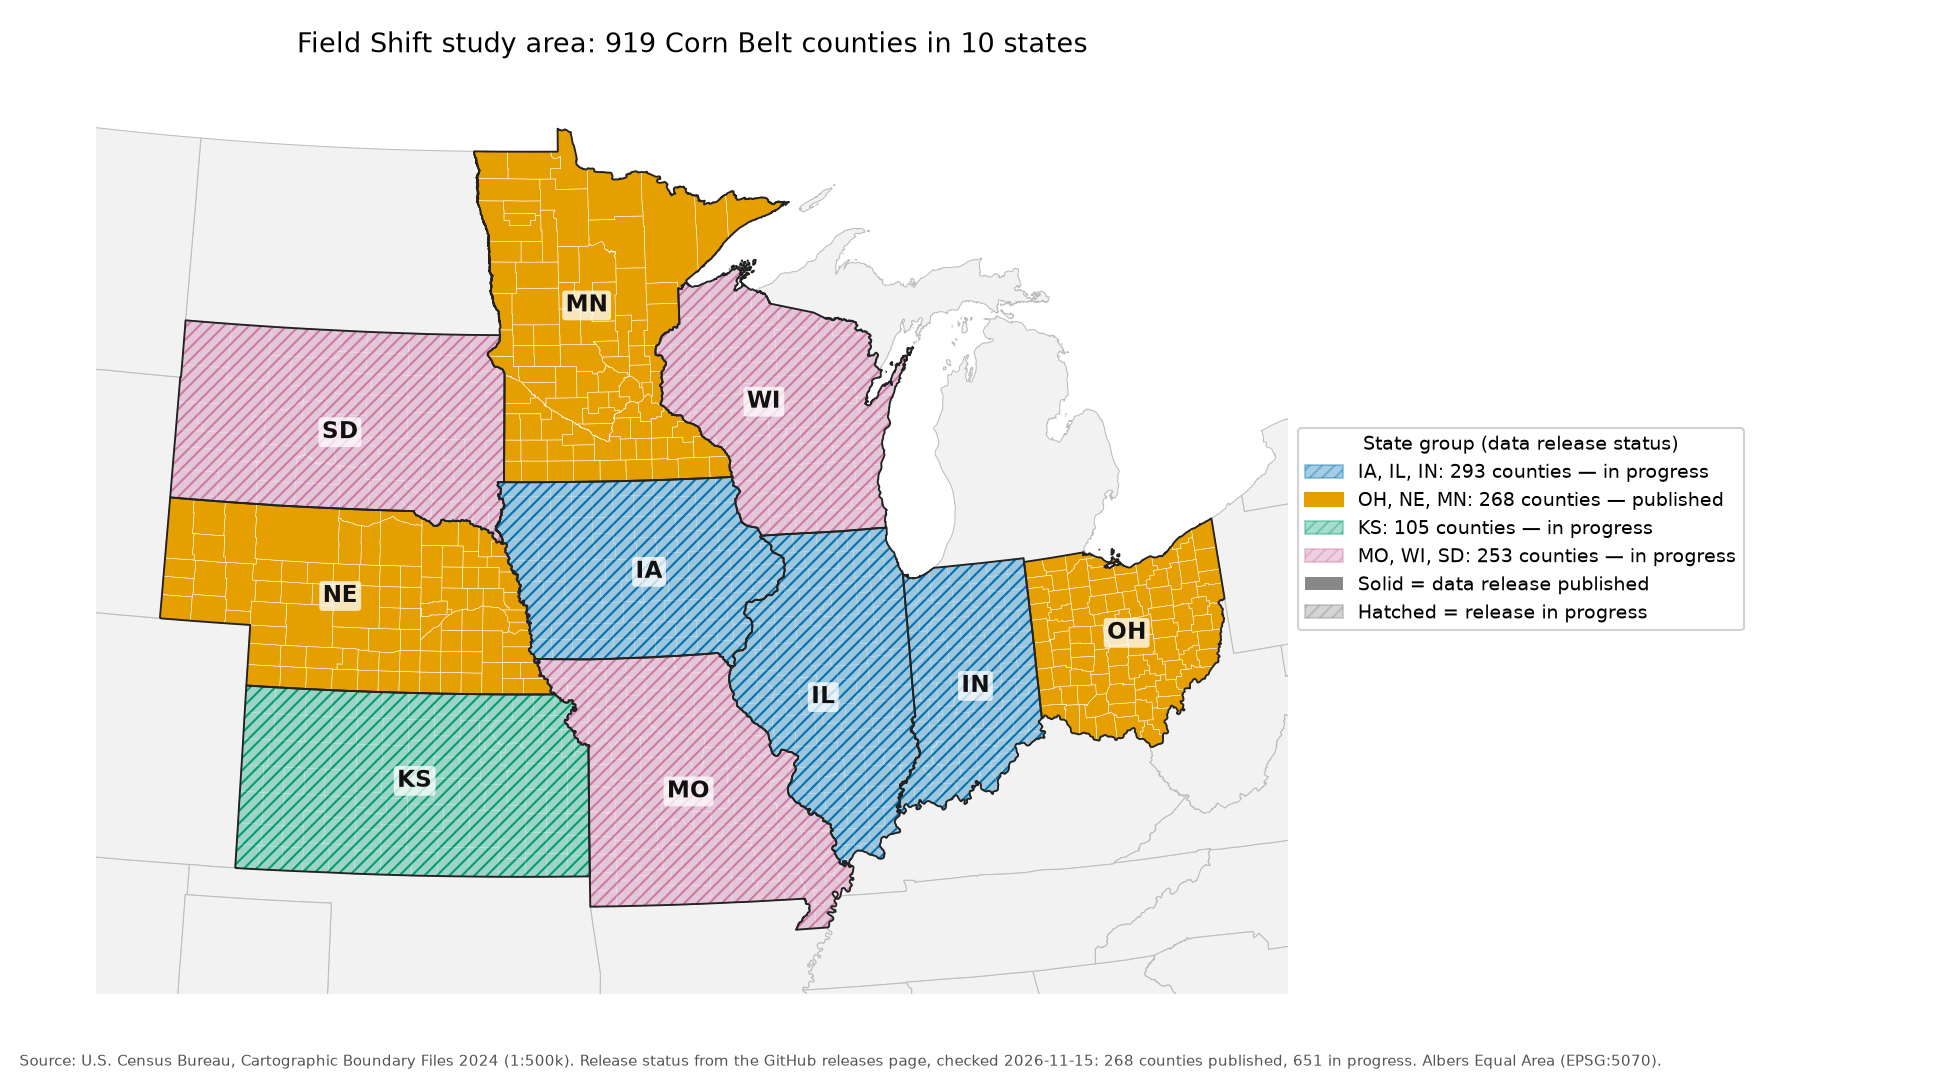
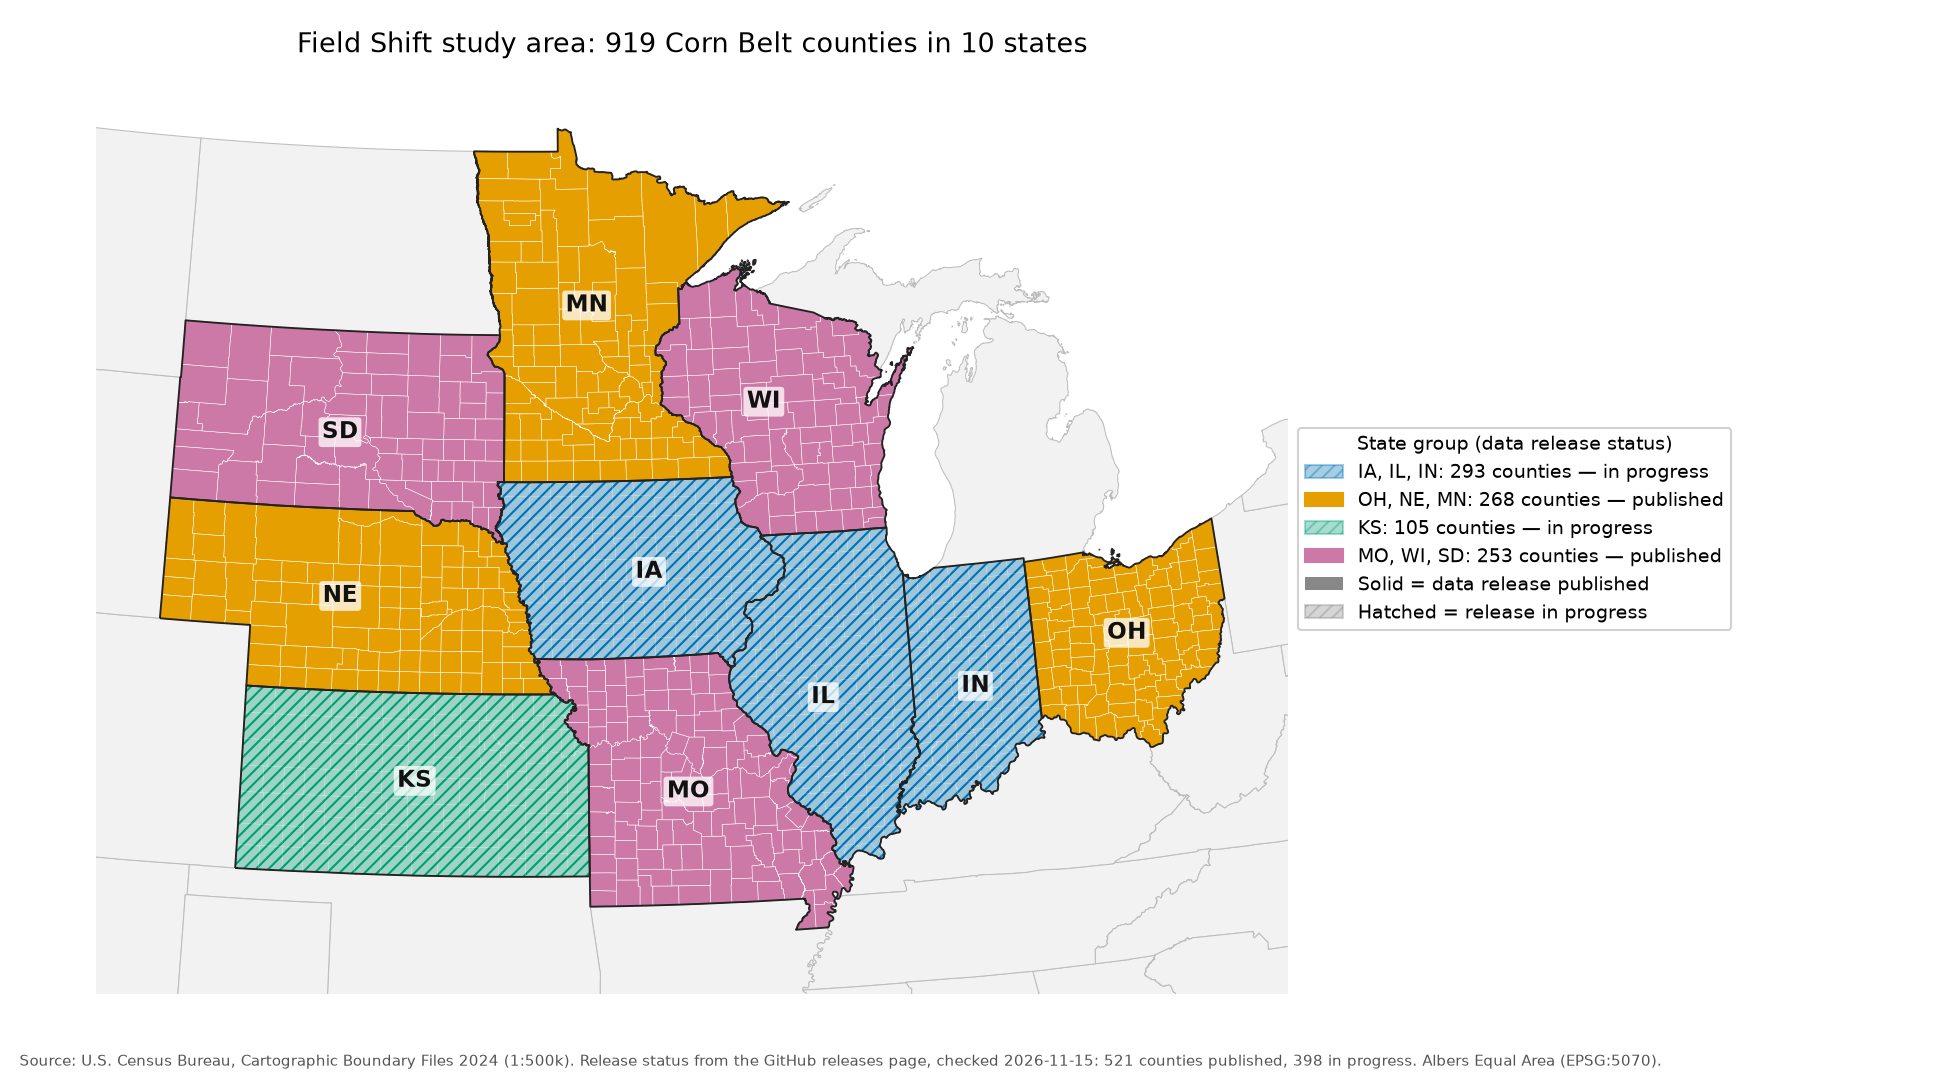
T104: Actualizar coverage, mapa y láminas cuando se publique datos-mo-wi-sd (#144)
* coverage: suma el release datos-mo-wi-sd (253 condados)

* mapa: MO, WI y SD como publicados (521 condados publicados)

* slides: cobertura con datos-mo-wi-sd (6 estados, 521 condados publicados)

* project_page: cobertura con datos-mo-wi-sd (6 estados, 521 condados)

* video: cobertura con datos-mo-wi-sd (6 estados, 521 condados)

---------

diff --git a/docs/demo/project_page.md b/docs/demo/project_page.md
@@ -11,14 +11,17 @@ Rules for whoever pastes this into the form:
 - **Everything in English.** All links must be **public, with no login**. Test them in a private window.
 - **No invented numbers.** Each figure has a `[src: ...]` note with the repo file it comes from. Delete those notes
   before pasting, but keep the numbers exactly as written. Anything we do not have yet is marked **[TBD]**.
-- **Coverage (checked 2026-11-15, task T089).** The only published data release is **`datos-oh-ne-mn`: Ohio,
-  Nebraska and Minnesota, 268 counties (OH 88, NE 93, MN 87), 2000–2025**, with 8 packages (`agua`, `clima`,
-  `cultivos`, `economia`, `nldas`, `paisaje`, `suelo_terreno`, `vegetacion`), 19 CSV files and 169 data columns
-  `[src: release datos-oh-ne-mn, condados.csv and CSV headers, zips checked against their .sha256]`. Iowa,
-  Illinois and Indiana (first batch, 293 counties, `docs/datasets/clima.md`), Kansas, the field-level
-  `fieldshift_lotes_v1` and the `ecostress`, `teledeteccion` and `validacion` packages have **no published
-  release**: their numbers below come from repo data cards only and are marked. Do not claim 7 states or 666
-  counties as delivered until those releases exist. `docs/demo/coverage.md` lists the published releases with
+- **Coverage (checked 2026-11-15, tasks T089 and T104).** Two data releases are published:
+  **`datos-oh-ne-mn`: Ohio, Nebraska and Minnesota, 268 counties (OH 88, NE 93, MN 87), 2000–2025**, with 8
+  packages (`agua`, `clima`, `cultivos`, `economia`, `nldas`, `paisaje`, `suelo_terreno`, `vegetacion`), 19 CSV
+  files and 169 data columns `[src: release datos-oh-ne-mn, condados.csv and CSV headers, zips checked against
+  their .sha256]`, and **`datos-mo-wi-sd`: Missouri, Wisconsin and South Dakota, 253 counties (MO 115, WI 72,
+  SD 66), 2000–2025**, with the same 8 packages and 19 CSV files `[src: release datos-mo-wi-sd,
+  docs/demo/coverage.md]`. Together: **6 states, 521 counties**. Iowa, Illinois and Indiana (first batch, 293
+  counties, `docs/datasets/clima.md`), Kansas (105 counties), the field-level `fieldshift_lotes_v1` and the
+  `ecostress`, `teledeteccion` and `validacion` packages have **no published release**: their numbers below come
+  from repo data cards only and are marked. Do not claim 10 states or 919 counties as delivered until those
+  releases exist. `docs/demo/coverage.md` lists the published releases with
   counted numbers: rerun `docs/demo/coverage.py` before pasting.
 - **Model results.** This repo builds the data only and trains no models (`CLAUDE.md`). Any claim about model
   accuracy or recommended rotations has to come from the ML or frontend team. **[TBD]**
@@ -46,8 +49,8 @@ tab): **[TBD]**. Local event: **[TBD]**.
 > years. We built an open, reproducible data pipeline that brings together 26 years (2000–2025) of NASA Earth
 > observations, which are the core of the tool: weather and rainfall (NASA POWER, GPM IMERG), soil moisture (SMAP,
 > NLDAS-2, GRACE-DA-DM), vegetation and land surface temperature (MODIS) and terrain (NASADEM). The first
-> published release covers 268 counties in Ohio, Nebraska and Minnesota; Iowa, Illinois, Indiana and Kansas
-> complete the planned 7-state study area. The pipeline combines the NASA data, county by county, with the crops
+> published releases cover 521 counties in six states (Ohio, Nebraska, Minnesota, Missouri, Wisconsin and South
+> Dakota); Iowa, Illinois, Indiana and Kansas complete the planned 10-state study area. The pipeline combines the NASA data, county by county, with the crops
 > actually grown on every 30 m pixel
 > (USDA Cropland Data Layer), county yields, soil surveys (SSURGO) and economics. On top of these tables, the
 > tool compares at least three rotations, starting with the farmer's current one. For each rotation it shows
@@ -55,8 +58,9 @@ tab): **[TBD]**. Local event: **[TBD]**.
 > fields, where satellite and terrain data separate dry knolls from wet depressions. The tool supports farmers'
 > decisions and local expertise; it does not replace them.
 
-Sources for the numbers: period, products and the 268 counties from the release `datos-oh-ne-mn`; planned
-states `CLAUDE.md` §2. ECOSTRESS, HLS and Landsat were taken out of the summary because their packages
+Sources for the numbers: period and products from the release `datos-oh-ne-mn`; the 521 counties from the
+releases `datos-oh-ne-mn` (268) and `datos-mo-wi-sd` (253), counted in `docs/demo/coverage.md`; planned states
+`config/config.yaml`. ECOSTRESS, HLS and Landsat were taken out of the summary because their packages
 (`ecostress`, `lotes`, `teledeteccion`) have no published release; put them back if they are published.
 Rotation penalty: continuous corn yields 4.3 % less than rotated corn on rainfed fields and 1.7 % less on
 irrigated ones, continuous soybean 10.3 % and 9.6 % less, and the corn penalty is largest in dry, low-yield
@@ -79,8 +83,9 @@ project from Global Judging (`space_apps_criterios.md` §2). The draft is in `do
 - **Data:** processed CSVs are published as GitHub Releases, one per group of states (`datos-<states>`, made by
   `scripts/entregar.py`), plus a separate field-level release (`fieldshift_lotes_v1`, `CLAUDE.md` §6.6).
   What is published today, with states, counties, years and rows counted from the zips:
-  `docs/demo/coverage.md` (refresh with `docs/demo/coverage.py`). Published release (Ohio, Nebraska, Minnesota):
-  <repo URL>/releases/tag/datos-oh-ne-mn · all releases: <repo URL>/releases `[src: coverage.md, 2026-11-15; add the
+  `docs/demo/coverage.md` (refresh with `docs/demo/coverage.py`). Published releases (Ohio, Nebraska, Minnesota):
+  <repo URL>/releases/tag/datos-oh-ne-mn · (Missouri, Wisconsin, South Dakota):
+  <repo URL>/releases/tag/datos-mo-wi-sd · all releases: <repo URL>/releases `[src: coverage.md, 2026-11-15; add the
   other datos-<states> tags only once they are published]`
 - **English documentation for judges:** `docs/datasets/README_en.md` (data summary, sources, quality control,
   limitations): [`docs/datasets/README_en.md`](../datasets/README_en.md)
@@ -95,9 +100,9 @@ project from Global Judging (`space_apps_criterios.md` §2). The draft is in `do
 ### What it does
 
 Field Shift is a decision-support tool for crop rotations in the U.S. Corn Belt. The planned study area is every
-county of Iowa, Illinois, Indiana, Ohio, Nebraska, Minnesota and Kansas, 666 counties, for 2000–2025
-`[src: CLAUDE.md §2]`. Published so far: Ohio, Nebraska and Minnesota, 268 counties, 2000–2025 `[src: release
-datos-oh-ne-mn]`. For a given county or field, the tool compares at least three rotation strategies,
+county of Iowa, Illinois, Indiana, Ohio, Nebraska, Minnesota, Kansas, Missouri, Wisconsin and South Dakota,
+919 counties, for 2000–2025 `[src: config/config.yaml]`. Published so far: Ohio, Nebraska, Minnesota, Missouri,
+Wisconsin and South Dakota, 521 counties, 2000–2025 `[src: releases datos-oh-ne-mn and datos-mo-wi-sd]`. For a given county or field, the tool compares at least three rotation strategies,
 including the current one, as the challenge asks. These are the corn–soybean rotation, continuous corn and
 rotations that add a small grain or alfalfa. For each strategy it reports:
 

diff --git a/docs/demo/slides.md b/docs/demo/slides.md
@@ -13,16 +13,20 @@ Rules for whoever finishes this draft:
 - **No invented numbers.** Every figure below says where it comes from (`[src: ...]`). Anything we do not have
   yet is marked **[TBD]**. The `[src: ...]` notes are for the team: remove them from the final slides, but keep
   the short data credit under each figure.
-- **Coverage (checked 2026-11-15, task T089).** The only data release published on GitHub is
+- **Coverage (checked 2026-11-15, tasks T089 and T104).** Two data releases are published on GitHub:
   **`datos-oh-ne-mn`: Ohio, Nebraska and Minnesota, 268 counties (OH 88, NE 93, MN 87), 2000–2025**, 8 packages,
   169 data columns in 19 CSV files (`[src: release datos-oh-ne-mn, data/reference/condados.csv and CSV
-  headers]`). There is **no published release** for Iowa, Illinois and Indiana (first batch, 293 counties, built
-  in an earlier repo and described in `docs/datasets/clima.md` and `validacion.md`), for Kansas, or for the
-  field-level `fieldshift_lotes_v1`. So: **do not say "666 counties" or "7 states" as delivered**; say "7 states
-  planned, 3 published (268 counties)" until the other releases exist. Numbers that come only from repo data
-  cards (IA/IL/IN validation, the 10 fields, ECOSTRESS) are marked as such below.
+  headers]`), and **`datos-mo-wi-sd`: Missouri, Wisconsin and South Dakota, 253 counties (MO 115, WI 72, SD 66),
+  2000–2025**, the same 8 packages and 19 CSV files (`[src: release datos-mo-wi-sd, docs/demo/coverage.md]`).
+  Together: **6 states, 521 counties published**. There is **no published release** for Iowa, Illinois and
+  Indiana (first batch, 293 counties, built in an earlier repo and described in `docs/datasets/clima.md` and
+  `validacion.md`), for Kansas (105 counties), or for the field-level `fieldshift_lotes_v1`. So: **do not say
+  "919 counties" or "10 states" as delivered**; say "10 states planned, 6 published (521 counties)" until the
+  other releases exist. Numbers that come only from repo data cards (IA/IL/IN validation, the 10 fields,
+  ECOSTRESS) are marked as such below.
 - **Figures.** Real PNGs are in `docs/demo/fig/` (task T074), built by `docs/demo/figuras.py` from the
-  `datos-oh-ne-mn` release. They show **only OH, NE and MN**, and each caption says so.
+  `datos-oh-ne-mn` release. They show **only OH, NE and MN**, and each caption says so (MO, WI and SD are not in
+  fig1–fig8 yet; only the map, fig0, includes them).
 - **AI disclosure.** Any AI-generated image or voice needs a visible watermark ("AI-generated"). Do not use or
   modify NASA logos with AI; use plain-text credits (`space_apps_criterios.md` §4 and §6).
 - No images, video, audio or likeness of anyone under 18.
@@ -43,7 +47,8 @@ Rules for whoever finishes this draft:
 state group (IA/IL/IN, OH/NE/MN, KS, MO/WI/SD; Okabe-Ito colorblind-safe palette). Solid fill = data release
 published, hatched = release in progress.
 - From: US Census Cartographic Boundary Files 2024, 1:500k, and the GitHub releases page (checked 2026-11-15:
-  only `datos-oh-ne-mn` published, 268 counties). Built by `docs/demo/figuras.py --solo-mapa` (task T094).
+  `datos-oh-ne-mn` and `datos-mo-wi-sd` published, 521 counties; IA/IL/IN and KS in progress, 398 counties).
+  Built by `docs/demo/figuras.py --mapa --solo-mapa` (tasks T094 and T104).
 - **Re-run before the final slides** so the release status is current.
 
 ![Field Shift study area](fig/fig0_mapa.png)
@@ -246,7 +251,7 @@ Group, Oregon State University · CoCoRaHS.
   CDL, CSB, Crop-CASMA) · USDA ERS · USDA NRCS SSURGO · U.S. Census Bureau · PRISM (Oregon State University) ·
   CoCoRaHS · AgTile-US.
 - **Open pipeline:** <repo URL> · data in the GitHub Releases: <repo URL>/releases (published:
-  <repo URL>/releases/tag/datos-oh-ne-mn) `[src: git remote get-url origin; docs/demo/coverage.md, 2026-11-15]`.
+  <repo URL>/releases/tag/datos-oh-ne-mn and <repo URL>/releases/tag/datos-mo-wi-sd) `[src: git remote get-url origin; docs/demo/coverage.md, 2026-11-15]`.
 - AI disclosure line: "Pipeline code and documentation were written with the help of AI coding agents (Claude);
   all data are downloaded from the cited sources, not generated by AI." **[TBD: team confirms wording.]**
 
@@ -292,6 +297,7 @@ private window.
 | Marsden +4 % corn, +16 % soybean, −86 % to −91 % mineral N | `docs/research/efecto_rotacion.md` (ISU Marsden Farm; Davis et al. 2012) |
 | 14 %–90 % smaller drought losses, 11 trials | `docs/research/efecto_rotacion.md` (Bowles et al. 2020) |
 | 268 counties (OH 88, NE 93, MN 87), 2000–2025, 8 packages, 19 CSV files, 169 data columns | release `datos-oh-ne-mn` (checked with `.sha256` on 2026-11-15): `condados.csv` and CSV headers |
+| 253 counties (MO 115, WI 72, SD 66), 2000–2025, 8 packages, 19 CSV files; 6 states and 521 counties published in total; 398 counties (IA/IL/IN, KS) in progress | release `datos-mo-wi-sd` (checked with `.sha256` on 2026-11-15), `docs/demo/coverage.md` and `fig0_mapa.png` (T104) |
 | Corn after corn 2025: median 24.5 %, 0–98.5 %, OH 11.0 %, MN 23.9 %, NE 46.5 %; corn after soybean median 64.6 %; 266 counties | release `datos-oh-ne-mn`, `rotacion_anual.csv` |
 | Median county corn yield 138.4 bu/ac (2012) vs 160.6 bu/ac (other years), 5,987 county-years | release `datos-oh-ne-mn`, `produccion_anual.csv` |
 | 8 NASA products in the published release | data cards inside the `datos-oh-ne-mn` zips |

diff --git a/docs/demo/video.md b/docs/demo/video.md
@@ -12,8 +12,10 @@ Rules this script follows (`docs/research/space_apps_criterios.md` §1–§2):
 - **Only real figures** from `docs/demo/fig/` and **only numbers** from `docs/demo/coverage.md` or the published
   release `datos-oh-ne-mn`. Every number below has its source in the last table. No model results: the shot
   marked **[ML]** is left for the ML team.
-- **What is published today:** only Ohio, Nebraska and Minnesota (268 counties, 2000–2025, release
-  `datos-oh-ne-mn`). Do **not** say "666 counties" or "7 states" as delivered. All figures are OH/NE/MN only.
+- **What is published today:** Ohio, Nebraska and Minnesota (268 counties, release `datos-oh-ne-mn`) and
+  Missouri, Wisconsin and South Dakota (253 counties, release `datos-mo-wi-sd`): 6 states, 521 counties,
+  2000–2025. Do **not** say "919 counties" or "10 states" as delivered. All figures except the map (fig0) are
+  OH/NE/MN only, and so are the numbers in shots 2–5.
 - No NASA logos (and no AI-modified logos): credits are plain text. Any AI-generated image or voice carries a
   visible "AI-generated" watermark. No people under 18.
 
@@ -41,7 +43,7 @@ Total: **30 s**. Narration: **71 words** (about 70 fit in 30 s; see the word cou
 ## Shot 1 — 0:00 to 0:03 · Title and team
 
 - **On screen:** `docs/demo/fig/fig0_mapa.png` (task T094): the counties of the study states, solid where the
-  data release is published (OH, NE, MN) and hatched where it is in progress. Title text over a dark band at
+  data release is published (OH, NE, MN, MO, WI, SD) and hatched where it is in progress. Title text over a dark band at
   the top. **Re-run `docs/demo/figuras.py --solo-mapa` before the final cut** so the solid/hatched status is
   current. Do not draw a map by hand.
 - **On-screen text:**
@@ -122,7 +124,7 @@ Total: **30 s**. Narration: **71 words** (about 70 fit in 30 s; see the word cou
 - **On screen:** plain-text card, no logos.
 - **On-screen text:**
   - **Built on open NASA data:** POWER · GPM IMERG (via POWER) · SMAP · GRACE-DA-DM · MODIS · NLDAS-2 · NASADEM
-  - *+ USDA NASS, NRCS, ERS · 268 counties published (OH, NE, MN), 2000–2025*
+  - *+ USDA NASS, NRCS, ERS · 521 counties published in 6 states (OH, NE, MN, MO, WI, SD), 2000–2025*
   - <repo URL> (the public GitHub URL of this repository)
 - **Narration (13 words):** "Open NASA data, an open pipeline, and the farmer still makes the call."
 - **Subtitle (2 lines):**
@@ -222,8 +224,9 @@ numbers were checked again by pro-3; the SMAP May value comes from fig3, because
 
 | Number | Where it comes from |
 |---|---|
-| Study-area map, solid = published release | `docs/demo/fig/fig0_mapa.png` (T094), checked 2026-11-15: only `datos-oh-ne-mn` published |
+| Study-area map, solid = published release | `docs/demo/fig/fig0_mapa.png` (T094, redone in T104), checked 2026-11-15: `datos-oh-ne-mn` and `datos-mo-wi-sd` published |
 | 268 counties (OH, NE, MN), 2000–2025; 83,616 county-months in `clima_mensual.csv` | `docs/demo/coverage.md`, release table |
+| 521 counties in 6 states published (268 OH/NE/MN + 253 MO/WI/SD), shot 7 | `docs/demo/coverage.md`, release table (T104) |
 | 7 NASA product families in the published release | `docs/demo/coverage.md`, "NASA products in the data" (packages `clima`, `agua`, `vegetacion`, `nldas`, `suelo_terreno`) |
 | Median county corn yield 138.4 bu/ac in 2012 (238 counties) vs 160.6 bu/ac in the other years (5,987 county-years in total), not detrended | `produccion_anual.csv`, `cultivo = maiz`, `rend_bu_ac`; figure fig5 |
 | Corn after corn 2025, county median: OH 11.0 %, MN 23.9 %, NE 46.5 %; 266 counties | `rotacion_anual.csv`, `anio = 2025`, `pct_maiz_tras_maiz`, median by state; figure fig4 |

diff --git a/docs/demo/coverage.md b/docs/demo/coverage.md
@@ -34,7 +34,7 @@ How to read it:
 | `datos-ia-il-in` | Iowa, Illinois, Indiana (first batch) | | | | | | in progress |
 | `datos-oh-ne-mn` | MN (87), NE (93), OH (88) | 268 | 2000–2025 | 8 | 91.0 | 2026-11-15 | published |
 | `datos-ks` | Kansas | | | | | | in progress |
-| `datos-mo-wi-sd` | Missouri, Wisconsin, South Dakota | | | | | | in progress |
+| `datos-mo-wi-sd` | MO (115), SD (66), WI (72) | 253 | 2000–2025 | 8 | 83.6 | 2026-11-15 | published |
 | `fieldshift_lotes_v1` | 10 demonstration fields, per 30 m pixel (CLAUDE.md §6.6) | | | | | | in progress |
 
 ### `datos-oh-ne-mn`: rows per file
@@ -60,6 +60,30 @@ How to read it:
 | `vegetacion` (5.0 MB zip) | `fenologia_anual.csv` | 6,968 | 12 | fips | 268 | 2000–2025 (26 years) |
 | `vegetacion` (5.0 MB zip) | `vegetacion_16d.csv` | 156,512 | 8 | fips | 268 | 2000–2025 (26 years) |
 | `vegetacion` (5.0 MB zip) | `vegetacion_mensual.csv` | 82,276 | 16 | fips | 268 | 2000–2025 (26 years) |
+
+### `datos-mo-wi-sd`: rows per file
+
+| Package | File | Rows | Columns | Spatial unit | Units | Years |
+|---|---|---|---|---|---|---|
+| `agua` (11.3 MB zip) | `agua_diario.csv` | 993,784 | 5 | fips | 253 | 2015–2025 (11 years) |
+| `agua` (11.3 MB zip) | `agua_mensual.csv` | 32,637 | 9 | fips | 253 | 2015–2025 (11 years) |
+| `agua` (11.3 MB zip) | `agua_semanal.csv` | 303,347 | 6 | fips | 253 | 2003–2025 (23 years) |
+| `clima` (65.5 MB zip) | `clima_anual.csv` | 6,578 | 15 | fips | 253 | 2000–2025 (26 years) |
+| `clima` (65.5 MB zip) | `clima_diario.csv` | 2,402,741 | 15 | fips | 253 | 2000–2025 (26 years) |
+| `clima` (65.5 MB zip) | `clima_mensual.csv` | 78,936 | 29 | fips | 253 | 2000–2025 (26 years) |
+| `cultivos` (0.6 MB zip) | `fenologia_estado.csv` | 156 | 7 | fips_estado | 3 | 2000–2025 (26 years) |
+| `cultivos` (0.6 MB zip) | `practicas_censo.csv` | 759 | 6 | fips | 253 | 2012–2022 (3 years) |
+| `cultivos` (0.6 MB zip) | `produccion_anual.csv` | 20,634 | 11 | fips | 252 | 2000–2025 (26 years) |
+| `cultivos` (0.6 MB zip) | `rotacion_anual.csv` | 4,554 | 13 | fips | 253 | 2008–2025 (18 years) |
+| `cultivos` (0.6 MB zip) | `rotacion_secuencia.csv` | 2,783 | 9 | fips | 253 | 11 8-year windows, 2008-2015 to 2018-2025 |
+| `economia` (0.0 MB zip) | `economia_anual.csv` | 312 | 9 | fips_estado | 3 | 2000–2025 (26 years) |
+| `economia` (0.0 MB zip) | `economia_forrajes_anual.csv` | 156 | 5 | fips_estado | 3 | 2000–2025 (26 years) |
+| `nldas` (1.4 MB zip) | `nldas_mensual.csv` | 78,936 | 9 | fips | 253 | 2000–2025 (26 years) |
+| `paisaje` (0.2 MB zip) | `paisaje_anual.csv` | 6,325 | 9 | fips | 253 | 2000–2024 (25 years) |
+| `suelo_terreno` (0.0 MB zip) | `suelo_terreno_estatico.csv` | 253 | 25 | fips | 253 |  |
+| `vegetacion` (4.6 MB zip) | `fenologia_anual.csv` | 6,578 | 12 | fips | 253 | 2000–2025 (26 years) |
+| `vegetacion` (4.6 MB zip) | `vegetacion_16d.csv` | 147,752 | 8 | fips | 253 | 2000–2025 (26 years) |
+| `vegetacion` (4.6 MB zip) | `vegetacion_mensual.csv` | 77,671 | 16 | fips | 253 | 2000–2025 (26 years) |
 
 <!-- coverage:end -->
 
